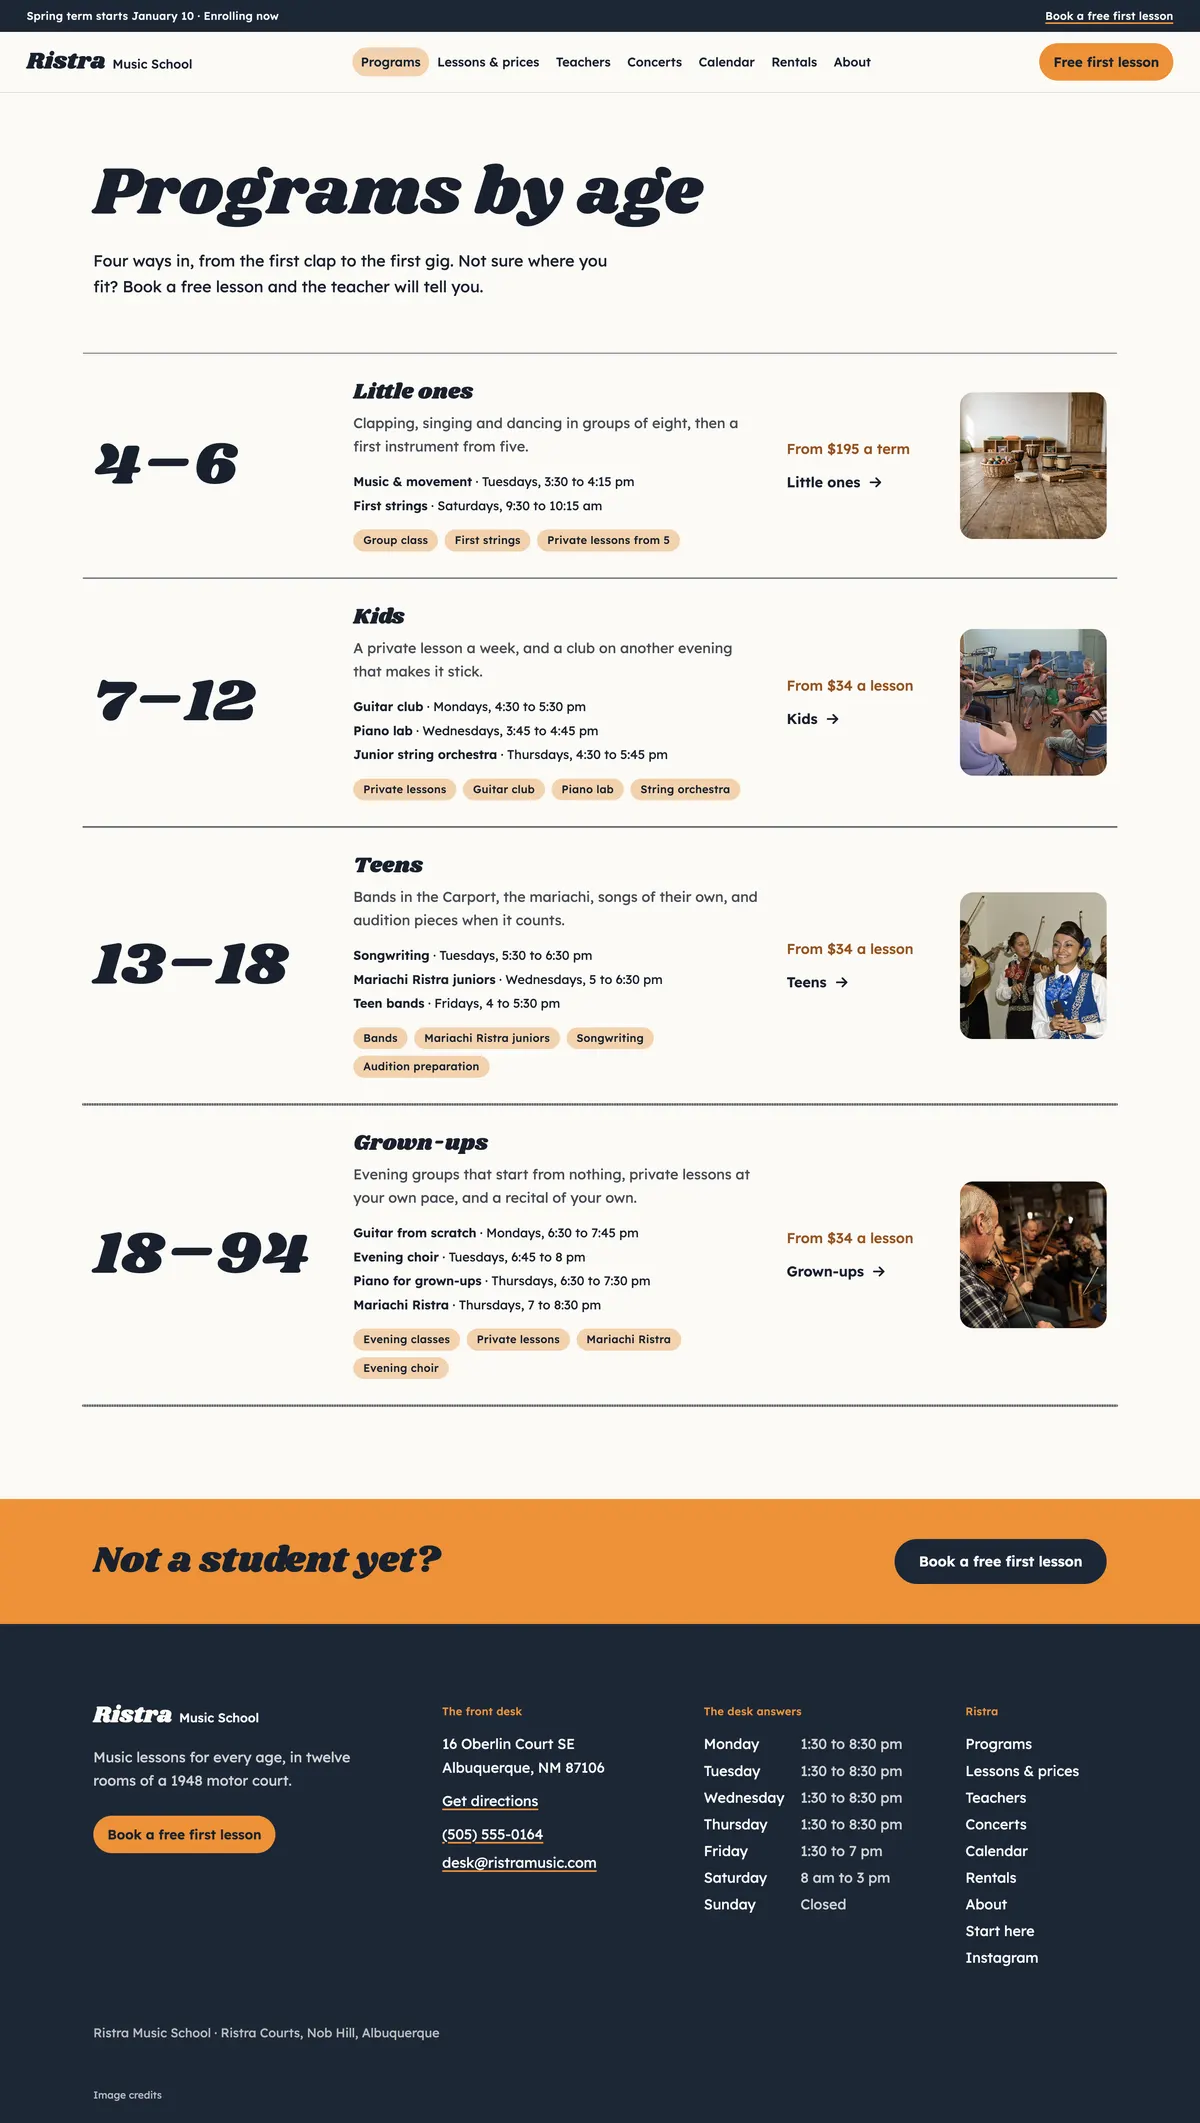
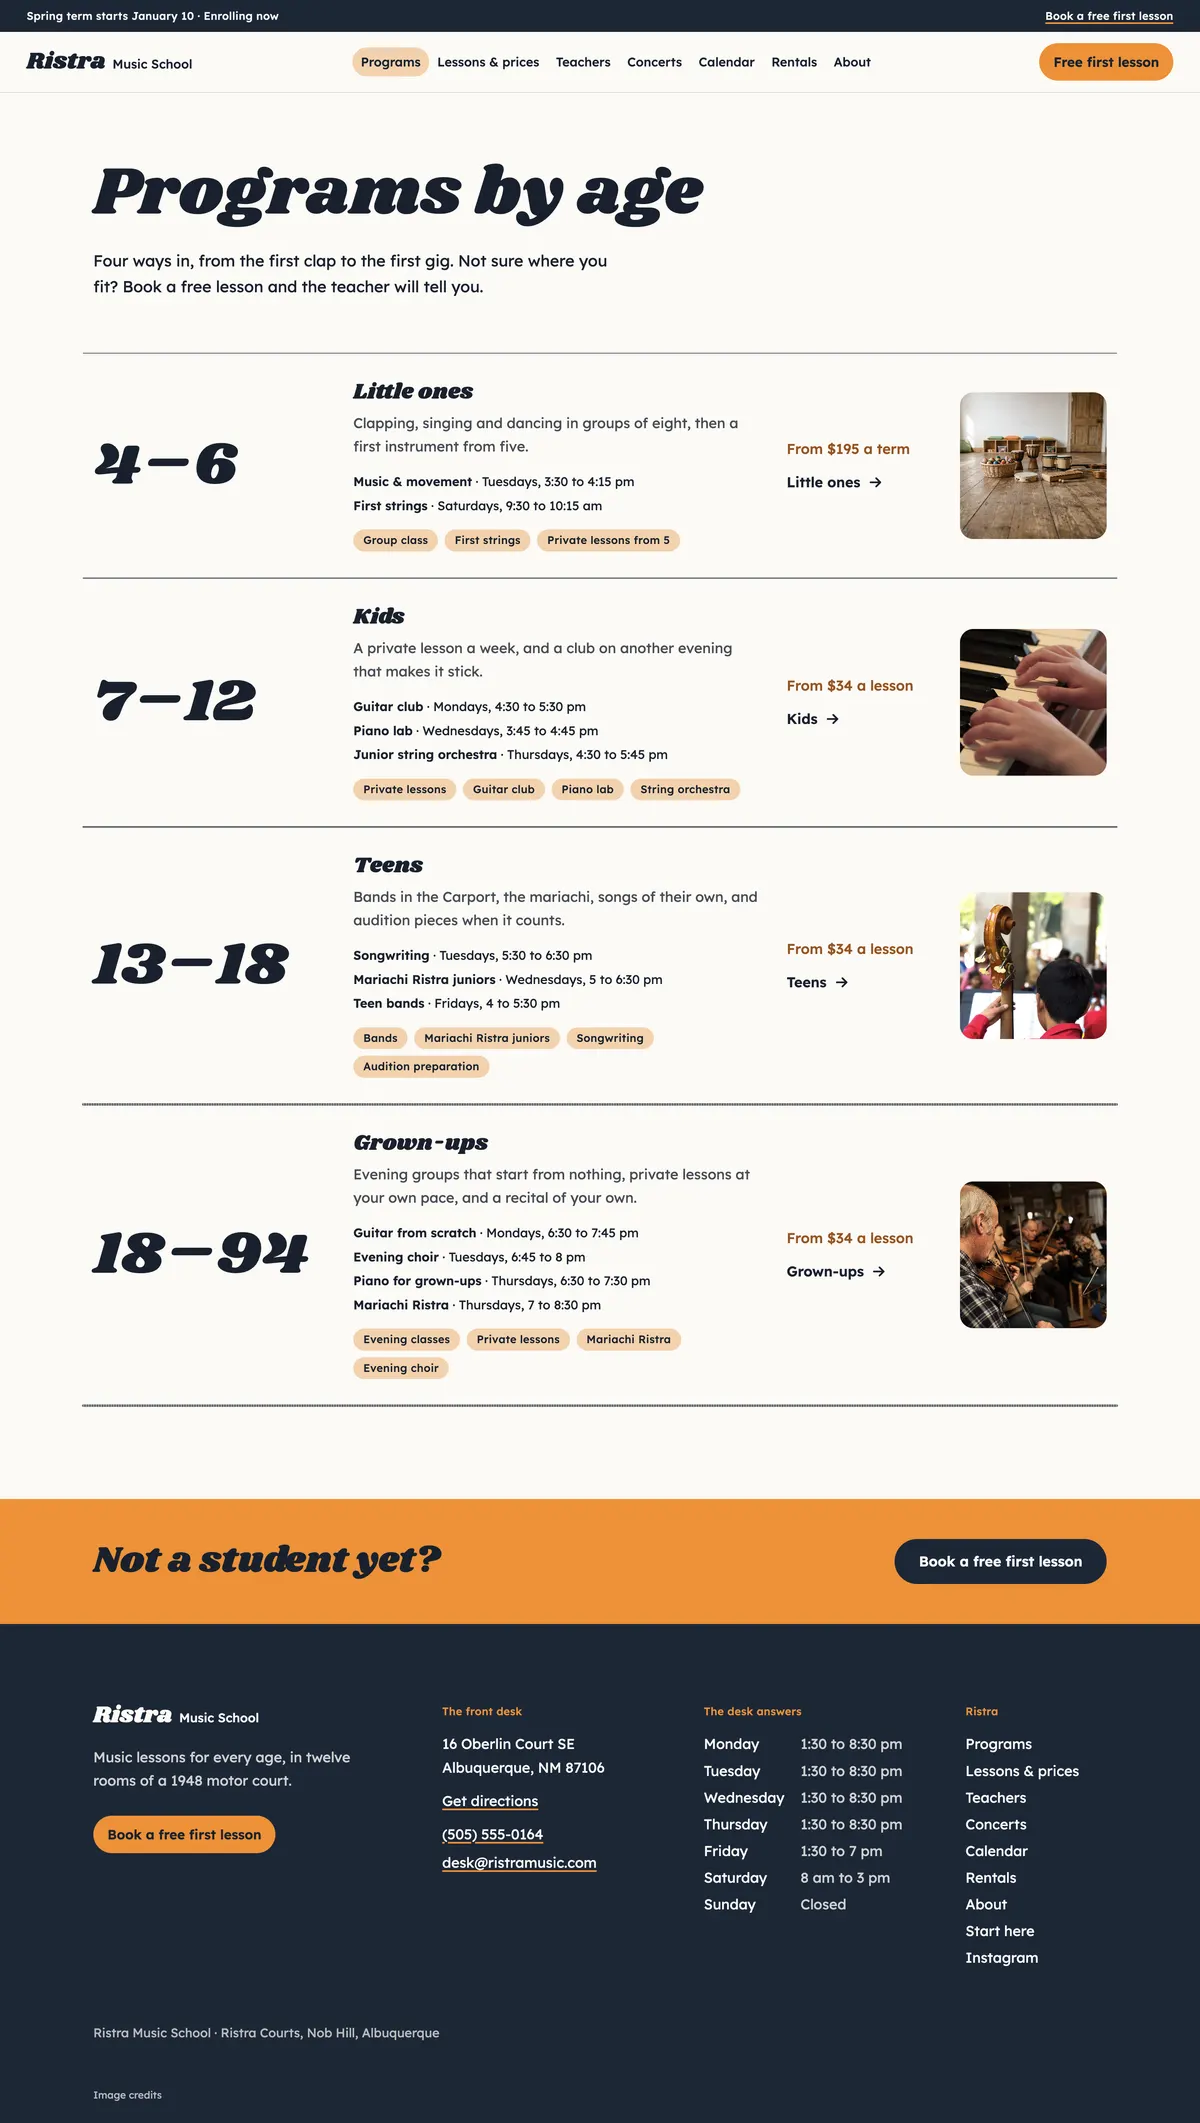
Strum: the menu marks only the page's own section (by the address's first segment, so a concert about teachers is no longer under Teachers), Kids and Teens shown by hands and from behind instead of by faces, a photo that reads in Band night's past years, and pictures taken again

Changed region(s): [[0.8017, 0.4041, 0.925, 0.4974], [0.8017, 0.2798, 0.925, 0.3731]]

diff --git a/strum/TEMPLATE.md b/strum/TEMPLATE.md
@@ -53,7 +53,7 @@ The programs in full, with their classes' evenings, and a page per program: the 
 - **Yes** (as built): each program opens on its page.
 - **The list only**: delete `pages/programs/[programs].liquid`, `data/program-faq/`, the fields `instruments`, `lesson_note` and `body` of `data/programs/`, and `programs` in `data/lesson-rates/`. In `parts/program-row.liquid` the ages and the name lose their links and the last link leads to `/lessons#week`; in `parts/week-of-classes.liquid` and `blocks/services/services-strum-week-of-classes/block.liquid` the class's name loses its link.
 
-When removed: delete `pages/programs/`, `parts/programs-by-age.liquid`, `parts/programs-full.liquid`, `parts/program-row.liquid`, `data/programs/`, `data/program-faq/`, `blocks/features/features-strum-programs-by-age/`, `media/violin-group.jpg`, `media/mariachi-students.jpg`, `media/fiddle-evening.jpg`, the `programs` navigation record and `blocks/footer/footer-strum-front-desk/data/programs.md`; `programs` goes from `data/lesson-rates/` (`media/room-12.webp` stays for `/about`). On the home page, `{% render 'week-of-classes' %}` takes the place of `{% render 'programs-by-age' %}`, its classes grouped by `program`, whose choices become plain words ("Kids, 7 to 12"). Point the hero's second button (`parts/hero.liquid`, `blocks/hero/hero-strum-start-at-four/block.liquid`) to `/lessons`. In `parts/week-of-classes.liquid` and `blocks/services/services-strum-week-of-classes/block.liquid` the class's name loses its link. In `parts/enroll-form.liquid` the program's field goes, and `program` from `data/enrollments/` and from `scripts/prefill.js`. `data/lesson-rates/` then shows on `/lessons` and in the enrollment form only.
+When removed: delete `pages/programs/`, `parts/programs-by-age.liquid`, `parts/programs-full.liquid`, `parts/program-row.liquid`, `data/programs/`, `data/program-faq/`, `blocks/features/features-strum-programs-by-age/`, `media/piano-hands.jpg`, `media/bass-scroll.jpg`, `media/fiddle-evening.jpg`, the `programs` navigation record and `blocks/footer/footer-strum-front-desk/data/programs.md`; `programs` goes from `data/lesson-rates/` (`media/room-12.webp` stays for `/about`). On the home page, `{% render 'week-of-classes' %}` takes the place of `{% render 'programs-by-age' %}`, its classes grouped by `program`, whose choices become plain words ("Kids, 7 to 12"). Point the hero's second button (`parts/hero.liquid`, `blocks/hero/hero-strum-start-at-four/block.liquid`) to `/lessons`. In `parts/week-of-classes.liquid` and `blocks/services/services-strum-week-of-classes/block.liquid` the class's name loses its link. In `parts/enroll-form.liquid` the program's field goes, and `program` from `data/enrollments/` and from `scripts/prefill.js`. `data/lesson-rates/` then shows on `/lessons` and in the enrollment form only.
 
 ### Lessons & prices (`/lessons`)
 
@@ -105,7 +105,7 @@ The recitals and concerts as strung rows with their day large, how playing in a 
 - **Tickets at the door**: each concert's `price`; rewrite the introduction of `parts/concerts-band.liquid` and the description of `pages/concerts/index.liquid`.
 - **Tickets on an outside page**: ask for each address and put it in `booking`, which adds "Tickets" to the row and the page.
 
-When removed: delete `pages/concerts/`, `parts/concerts-band.liquid` and its render in `pages/index.liquid`, `parts/concert-rows.liquid`, `parts/concert-row.liquid`, `parts/playing.liquid`, `data/concerts/`, `data/recital-notes/`, `blocks/events/events-strum-concert-rows/`, the `concerts` navigation record, `blocks/footer/footer-strum-front-desk/data/concerts.md`, and the media only the concerts show: `recital-stage.jpg`, `cello-bow.jpg`, `viola-scroll.jpg`, `cymbals.jpg`, `drummer.jpg`, `electric-guitar.jpg`, `spotlight.jpg`, `luminarias.jpg`, `strumming.jpg` and `violin-hand.jpg` (`recital-trio.jpg` stays for the home page). The calendar keeps the concerts as dates.
+When removed: delete `pages/concerts/`, `parts/concerts-band.liquid` and its render in `pages/index.liquid`, `parts/concert-rows.liquid`, `parts/concert-row.liquid`, `parts/playing.liquid`, `data/concerts/`, `data/recital-notes/`, `blocks/events/events-strum-concert-rows/`, the `concerts` navigation record, `blocks/footer/footer-strum-front-desk/data/concerts.md`, and the media only the concerts show: `recital-stage.jpg`, `cello-bow.jpg`, `viola-scroll.jpg`, `cymbals.jpg`, `drummer.jpg`, `electric-guitar.jpg`, `sneaker-pedals.jpg`, `luminarias.jpg`, `strumming.jpg` and `violin-hand.jpg` (`recital-trio.jpg` stays for the home page). The calendar keeps the concerts as dates.
 
 ### Calendar (`/calendar`)
 

diff --git a/strum/blocks/features/features-strum-programs-by-age/data/teens.md b/strum/blocks/features/features-strum-programs-by-age/data/teens.md
@@ -5,7 +5,7 @@ ages_short: "13–18"
 summary: "Bands in the Carport, the mariachi, songs of their own, and audition pieces when it counts."
 holds: ["Bands", "Mariachi Ristra juniors", "Songwriting", "Audition preparation"]
 from_price: "From $34 a lesson"
-cover: "/media/mariachi-students.jpg"
+cover: "/media/bass-scroll.jpg"
 instruments: ["Electric guitar", "Bass", "Drums", "Voice", "Violin", "Cello", "Trumpet", "Alto saxophone"]
 lesson_note: "Forty-five minutes suits most; an hour in the months before an audition."
 ---

diff --git a/strum/data/programs/teens.md b/strum/data/programs/teens.md
@@ -5,7 +5,7 @@ ages_short: "13–18"
 summary: "Bands in the Carport, the mariachi, songs of their own, and audition pieces when it counts."
 holds: ["Bands", "Mariachi Ristra juniors", "Songwriting", "Audition preparation"]
 from_price: "From $34 a lesson"
-cover: "/media/mariachi-students.jpg"
+cover: "/media/bass-scroll.jpg"
 instruments: ["Electric guitar", "Bass", "Drums", "Voice", "Violin", "Cello", "Trumpet", "Alto saxophone"]
 lesson_note: "Forty-five minutes suits most; an hour in the months before an audition."
 ---

diff --git a/strum/blocks/features/features-strum-programs-by-age/data/kids.md b/strum/blocks/features/features-strum-programs-by-age/data/kids.md
@@ -5,7 +5,7 @@ ages_short: "7–12"
 summary: "A private lesson a week, and a club on another evening that makes it stick."
 holds: ["Private lessons", "Guitar club", "Piano lab", "String orchestra"]
 from_price: "From $34 a lesson"
-cover: "/media/violin-group.jpg"
+cover: "/media/piano-hands.jpg"
 instruments: ["Violin", "Cello", "Guitar", "Piano", "Ukulele", "Drums", "Trumpet", "Voice"]
 lesson_note: "At seven, thirty minutes a week is plenty; most move to forty-five by ten."
 ---

diff --git a/strum/data/programs/kids.md b/strum/data/programs/kids.md
@@ -5,7 +5,7 @@ ages_short: "7–12"
 summary: "A private lesson a week, and a club on another evening that makes it stick."
 holds: ["Private lessons", "Guitar club", "Piano lab", "String orchestra"]
 from_price: "From $34 a lesson"
-cover: "/media/violin-group.jpg"
+cover: "/media/piano-hands.jpg"
 instruments: ["Violin", "Cello", "Guitar", "Piano", "Ukulele", "Drums", "Trumpet", "Voice"]
 lesson_note: "At seven, thirty minutes a week is plenty; most move to forty-five by ten."
 ---

diff --git a/strum/blocks/events/events-strum-concert-rows/data/band-night.md b/strum/blocks/events/events-strum-concert-rows/data/band-night.md
@@ -11,7 +11,7 @@ running_order: ["No Vacancy · Four songs", "The Swamp Coolers · Five songs", "
 sign_up_by: 2027-11-19
 photos:
   - /media/electric-guitar.jpg
-  - /media/spotlight.jpg
+  - /media/sneaker-pedals.jpg
   - /media/drummer.jpg
 ---
 The bands wrote their own set lists and their own names. Jonah mixes, the parents' association sells posole in the courtyard, and it's over by nine.

diff --git a/strum/data/concerts/band-night.md b/strum/data/concerts/band-night.md
@@ -11,7 +11,7 @@ running_order: ["No Vacancy · Four songs", "The Swamp Coolers · Five songs", "
 sign_up_by: 2027-11-19
 photos:
   - /media/electric-guitar.jpg
-  - /media/spotlight.jpg
+  - /media/sneaker-pedals.jpg
   - /media/drummer.jpg
 ---
 The bands wrote their own set lists and their own names. Jonah mixes, the parents' association sells posole in the courtyard, and it's over by nine.
